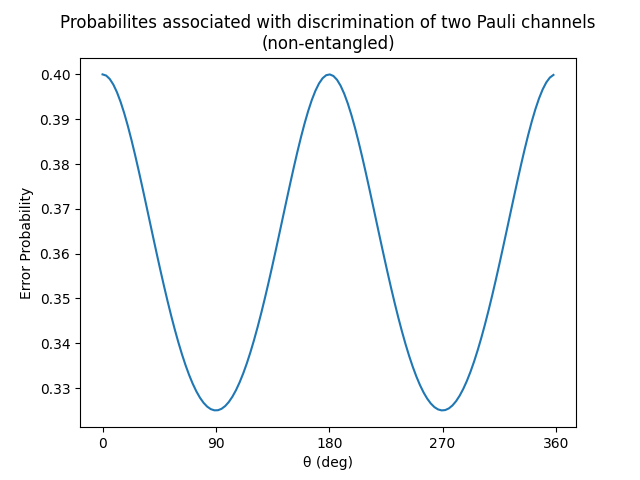
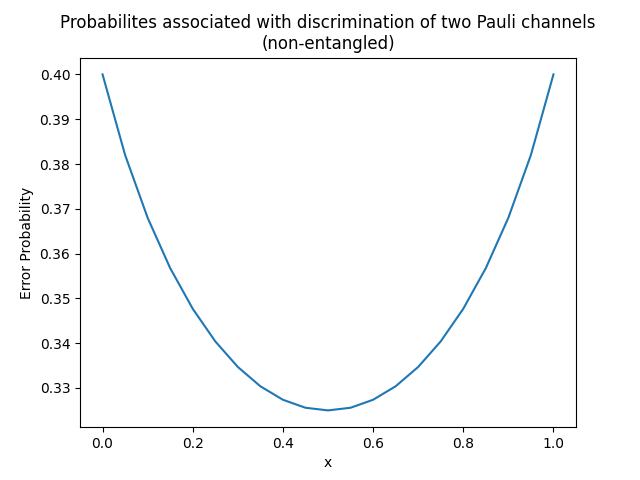
Convert input state theta to x in pauli discrim

diff --git a/discrim_pauli_channels.py b/discrim_pauli_channels.py
@@ -91,7 +91,13 @@ def find_error_probability(theta):
     """
 
     # Define input state |psi>
-    psi = pic.Constant(np.cos(theta / 2) * ket_0 + np.sin(theta / 2) * ket_1)
+    psi = pic.Constant(
+        [
+            [(1-theta) ** 0.5],
+            [(theta) ** 0.5],
+        ],
+        shape=(2, 1)
+    )
 
     inner = 0
     # Sum over the 4 pauli matrices
@@ -121,14 +127,14 @@ def plot_error_probability():
     p1=p2=1/2. Uses a non-entangled input state.
     """
 
-    theta = np.arange(0, 2*np.pi, 0.05)
-    error_p = [find_error_probability(i) for i in theta]
+    x = np.arange(0, 1.05, 0.05)
+    error_p = [find_error_probability(i) for i in x]
 
-    plt.plot(theta, error_p)
+    plt.plot(x, error_p)
     # Change x axis to degrees
-    plt.xticks(np.arange(0, 2*np.pi+0.1, np.pi/2), [f"{i:.0f}" for i in np.arange(0, 361, 90)])
+    # plt.xticks(np.arange(0, 2*np.pi+0.1, np.pi/2), [f"{i:.0f}" for i in np.arange(0, 361, 90)])
     plt.title("Probabilites associated with discrimination of two Pauli channels\n(non-entangled)")
-    plt.xlabel(f"\u03B8 (deg)")  # theta symbol
+    plt.xlabel(f"x")  # theta symbol
     plt.ylabel("Error Probability")
     plt.savefig("plots/error_probability_pauli_channel.png")
     plt.show()
